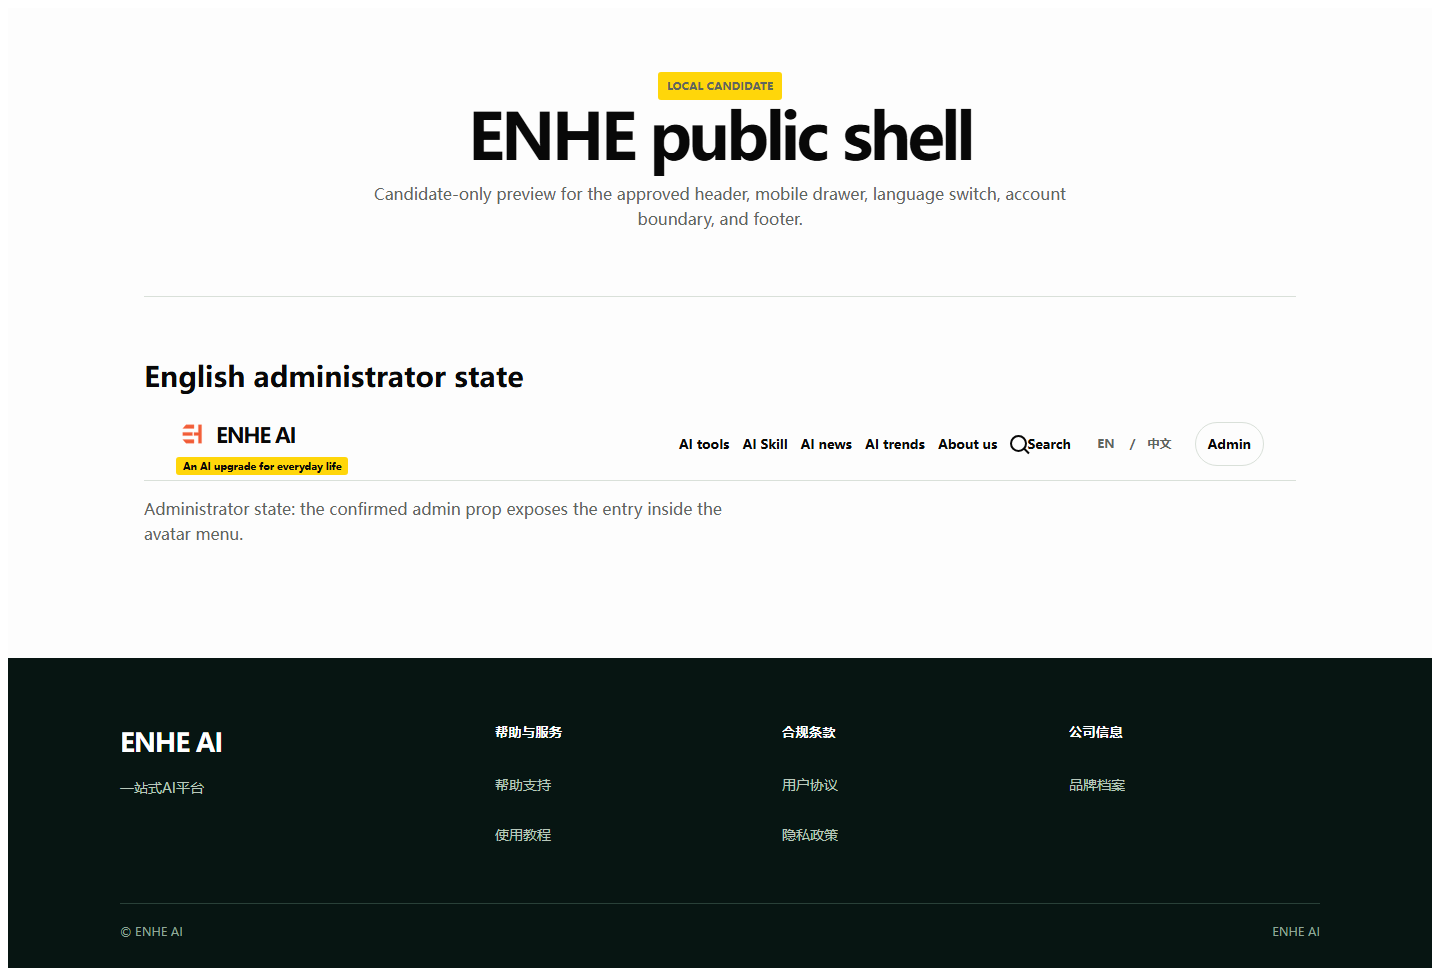
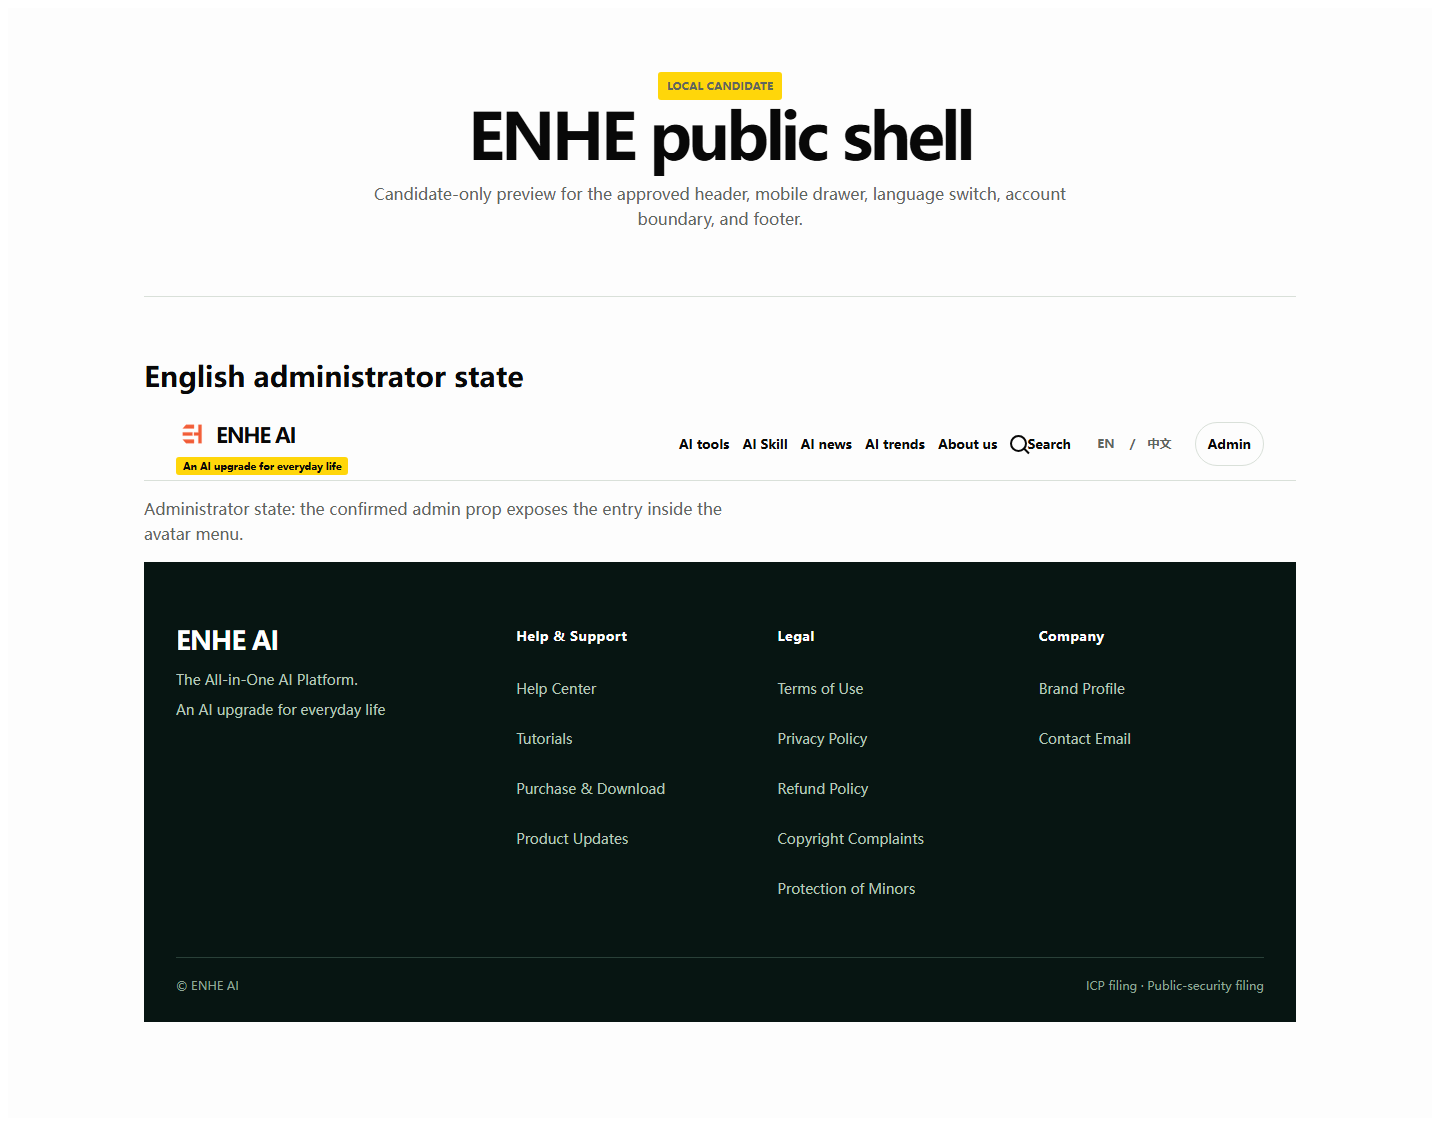
docs(ui): finalize bilingual public shell candidate review
(cherry picked from commit 878a4bb4411bf603f79eb982a2f2cacd270b8b28)

diff --git a/docs/enhe-redesign/phase-2a1/review-report.md b/docs/enhe-redesign/phase-2a1/review-report.md
@@ -1,75 +1,139 @@
-# ENHE Phase 2A.1 public shell candidate review
+# ENHE Phase 2A.1.1 bilingual public shell candidate review
 
-## Scope
+## Scope and baseline
 
 - Worktree: `C:\Users\HU\Documents\New project 2\.worktrees\enhe-public-shell-candidate-v1`
 - Branch: `codex/enhe-public-shell-candidate-v1`
-- Base: `1b3df7c706c5b7f9d8c8a844787da5708e702683`
+- Start HEAD: `7052ce8`
 - Preview route: `/redesign-preview/shell`
 - Old private-folder route: `/__redesign-preview/shell`
 
-The candidate remains isolated. Production header, footer, root layout, globals, sitemap, robots, package files, lockfiles, Prisma, Heartbeat, and R-008 files were not changed.
+The only implementation change in this correction is candidate Footer localization plus the Preview specimen pairing needed to render the same locale in Header, mobile menu, language switch, and Footer. Production public routes and the previously approved shell components remain isolated and unchanged.
 
-## Receipt
+## Final receipt
 
 ```text
-ROUTE_SOURCE_ADDED=YES
-PREVIEW_ROUTE_DEV_ONLY=YES
+PHASE_2A_1_1_STATUS=COMPLETE_WITH_BUILD_GATE_OPEN
+PHASE_2A_1_1_VISUAL_STATUS=PASS
+PHASE_2A_1_1_BUILD_STATUS=OPEN
+PUBLIC_SHELL_CANDIDATE_STATUS=READY_FOR_VISUAL_APPROVAL
+PUBLIC_SHELL_MERGE_STATUS=BLOCKED_BY_HEARTBEAT_R008_AND_BUILD
+
+FOOTER_I18N_COMMIT=1defa15
+DOCS_REVIEW_COMMIT=docs(ui): finalize bilingual public shell candidate review
+FOOTER_I18N_RED_STATUS=EXPECTED_FAIL
+FOOTER_I18N_GREEN_STATUS=PASS
+
 PREVIEW_DEV_HTTP_STATUS=200
 PREVIEW_PRODUCTION_EXPECTED_STATUS=404
+PREVIEW_NOINDEX=YES
+PREVIEW_NOFOLLOW=YES
+PREVIEW_IN_SITEMAP=NO
+
+SCREENSHOT_COUNT=4
+SCREENSHOT_WIDTHS=1440,390,1440,390
+ZH_FOOTER_SCREENSHOTS=2
+EN_FOOTER_SCREENSHOTS=2
+EN_SCREENSHOT_FOOTER_LANGUAGE=EN
+ZH_SCREENSHOT_FOOTER_LANGUAGE=ZH
+
 PRODUCTION_PUBLIC_ROUTE_EXPOSED=NO
 PRODUCTION_NAVIGATION_CHANGED=NO
 PRODUCTION_SITEMAP_CHANGED=NO
 PRODUCTION_EXISTING_ROUTES_REPLACED=NO
-PHASE_2A_1_STATUS=COMPLETE_WITH_BUILD_GATE_OPEN
-PUBLIC_SHELL_CANDIDATE_STATUS=READY_FOR_VISUAL_REVIEW
-PUBLIC_SHELL_MERGE_STATUS=BLOCKED_BY_HEARTBEAT_R008_AND_BUILD
+ROOT_LAYOUT_CHANGED=NO
+GLOBALS_CSS_CHANGED=NO
+R008_CHANGED=NO
+PACKAGE_CHANGED=NO
+LOCKFILE_CHANGED=NO
+PRISMA_CHANGED=NO
+PUSHED=NO
 ```
 
-The production 404 is source-verified through the `NODE_ENV === "production"` `notFound()` guard; a production HTTP request was not claimed because the production build could not finish without the database gate.
+## Root cause and implementation
 
-## Route and indexing verification
+The Footer component accepted `locale`, but its previous English dictionary was incomplete and the Preview mounted only one Footer instance with `locale="zh"` after both Header specimens. Therefore the English Header could never produce an English Footer.
 
-- Dev HTTP `/redesign-preview/shell`: `200`.
-- Dev HTTP `/__redesign-preview/shell`: `404`.
-- Preview HTML robots metadata: `noindex, nofollow, noarchive, noimageindex`.
-- Preview metadata has no canonical, hreflang, Open Graph, or structured-data entry.
-- Sitemap source contains no redesign preview route.
-- Candidate navigation source contains no redesign preview link.
-- Preview source contains no `File.fileUrl`, `File.filePath`, order, payment, download, secret, or Git data.
+The fix uses a candidate-local typed static dictionary: `Record<RedesignLocale, RedesignFooterCopy>`. The dictionary owns the brand intro, three link-column definitions, copyright, filing display policy, and accessible Footer name. It does not read a database, cookie, URL, API, or production i18n state.
 
-## Browser and visual verification
+The Preview now renders an explicit Chinese specimen with `EnheRedesignHeader locale="zh"` and `EnheRedesignFooter locale="zh"`, and an English specimen with `EnheRedesignHeader locale="en"` and `EnheRedesignFooter locale="en"`. The Header passes the same locale to its language switch and mobile menu; no second boolean locale state was introduced.
 
-Playwright verification used the local dev route. The Next development indicator was removed from the captured DOM only; no application source was changed.
+The Footer keeps the existing deep ink-green background, responsive behavior, four-column semantic structure, link focus behavior, and CSS layout. No production Footer or route was modified.
 
-- Mobile menu opens with `aria-expanded=true`, locks body scrolling, and moves focus into the drawer.
-- Escape closes the drawer and returns focus to the trigger.
-- Overlay close works.
-- 390px and 720px narrow-viewport checks had no horizontal overflow.
-- Reduced-motion emulation was enabled.
-- Chinese and English specimen captures were inspected at desktop and mobile widths.
+## Footer copy
 
-The English captures focus the English administrator header specimen. The preview page currently mounts the shared Chinese footer specimen once; the footer component has an independent English column definition, but an English-footer browser capture is not represented by these page screenshots.
+Chinese columns:
 
-Screenshots:
+- `ENHE AI`
+- `帮助与服务`: 帮助支持, 使用教程, 购买与下载, 产品更新
+- `合规条款`: 用户协议, 隐私政策, 退款规则, 版权投诉, 未成年人保护
+- `公司信息`: 品牌档案, 联系邮箱
+- Filing: `ICP备案 · 公安备案`
+
+English columns:
+
+- `ENHE AI`
+- `Help & Support`: Help Center, Tutorials, Purchase & Download, Product Updates
+- `Legal`: Terms of Use, Privacy Policy, Refund Policy, Copyright Complaints, Protection of Minors
+- `Company`: Brand Profile, Contact Email
+- Filing: `ICP filing · Public-security filing`
+
+All hrefs remain within the approved candidate link contract; no new production route was created.
+
+## Tests and browser acceptance
+
+The new RED assertions failed before implementation with 3 failures: missing complete bilingual copy, no English Footer specimen, and missing typed accessible/filing fields. After implementation they pass.
+
+```text
+FOOTER_I18N_TESTS=3 new behaviors covered; RED then GREEN
+FOOTER_TESTS=10 candidate tests passed
+HEADER_TESTS=covered by existing candidate contract; passed
+MOBILE_MENU_TESTS=covered by existing candidate contract and browser check; passed
+PREVIEW_ROUTE_TESTS=passed
+FULL_TESTS=437 files passed, 9 PostgreSQL files skipped; 2103 tests passed, 90 skipped
+npm run lint=PASS
+npm run typecheck=PASS
+```
+
+Fresh dev-browser evidence on port 38125:
+
+- `/redesign-preview/shell`: `200`.
+- `/__redesign-preview/shell`: `404`.
+- Robots: `noindex, nofollow, noarchive, noimageindex`.
+- Chinese and English Footer DOM specimens are both visible and language-pure.
+- No Footer/navigation link points to `redesign-preview`.
+- No visible `File.fileUrl`, `File.filePath`, order, payment, or download data.
+- New route had no page error or unexpected console error.
+- Mobile menu focus, Escape return, overlay close, body scroll lock, focus-visible style, reduced-motion, and narrow viewport overflow checks passed.
+
+Screenshots were captured with `fullPage`, no temporary focus ring, and inspected individually. PNG dimensions:
+
+```text
+zh-shell-1440.png  1440x1231
+zh-shell-390.png    390x1766
+en-shell-1440.png  1440x1126
+en-shell-390.png    390x1717
+```
+
+All four screenshots contain the complete Footer. The two English screenshots show only English Footer copy; the two Chinese screenshots show only Chinese Footer copy.
+
+## Build gate
+
+```text
+BUILD=OPEN_LOCAL_DOCKER_UNAVAILABLE
+```
+
+`docker version` reports the Docker client but cannot connect to the Docker Desktop Linux Engine. A fresh `npm run build` compiled successfully and completed lint/type checking, then failed during static generation because `DATABASE_URL` is unavailable. No production database, fake database URL, seed, migration, deployment, or environment change was used.
+
+## Explicit non-actions
+
+The existing production public routes, root layout, `globals.css`, sitemap, robots, product details, download, payment, OAuth, Runtime Heartbeat, R-008, Prisma, package files, lockfiles, remote, and production environment were not changed. R-008 was not executed. The candidate was not pushed or merged.
+
+## Result artifacts
 
 - `screenshots/zh-shell-1440.png`
 - `screenshots/zh-shell-390.png`
 - `screenshots/en-shell-1440.png`
 - `screenshots/en-shell-390.png`
 
-## Validation
-
-```text
-npm run lint: PASS
-npm run typecheck: PASS
-npm test -- candidate: PASS (7 tests)
-npm test -- full: PASS (437 files passed, 9 PostgreSQL files skipped; 2100 tests passed, 90 skipped)
-runtime-heartbeat focused test: PASS (6 tests)
-```
-
-`npm run build` compiled successfully and completed lint/type checking, then failed during static page generation because `DATABASE_URL` is unavailable. Docker is also unavailable (`dockerDesktopLinuxEngine` daemon not found). No production database, deployment, or secret configuration was changed.
-
-## Merge gate
-
-This candidate is ready for visual review only. Merge remains blocked by the separately tracked Heartbeat/R-008 gate and the unavailable production build/database gate.
+The final ZIP contains only this Phase 2A.1 documentation directory and its four screenshots; it contains no source archive, `node_modules`, `.next`, `.env`, database, secret, private URL, or Git credential.

diff --git a/docs/enhe-redesign/phase-2a1/submission-checklist.md b/docs/enhe-redesign/phase-2a1/submission-checklist.md
@@ -1,24 +1,26 @@
-# Phase 2A.1 submission checklist
+# Phase 2A.1.1 submission checklist
 
 ## Required artifacts
 
-- [x] Isolated worktree and branch preserved.
-- [x] Routable dev-only preview route added under `src/app/redesign-preview`.
-- [x] Old `src/app/__redesign-preview` directory removed by route move.
-- [x] Production guard and noindex metadata present.
-- [x] Four visual-review screenshots captured.
-- [x] Lint, typecheck, candidate tests, and full test suite run.
-- [x] Build result and Docker/database gate recorded.
-- [x] No source tree, `node_modules`, `.next`, `.env`, database dump, secret, private URL, or Git credential included in the results ZIP.
+- [x] Baseline `7052ce8` verified before work.
+- [x] Candidate Footer uses one typed `zh`/`en` dictionary.
+- [x] Preview pairs Header and Footer under the same explicit locale specimen.
+- [x] RED test observed before implementation; GREEN test observed after implementation.
+- [x] Four full-page screenshots regenerated and visually inspected.
+- [x] English screenshots contain English Footer; Chinese screenshots contain Chinese Footer.
+- [x] Lint, typecheck, candidate tests, and full test suite passed.
+- [x] Route, noindex, sitemap, navigation, privacy, and browser regressions checked.
+- [x] Build and Docker gate recorded without fake database configuration.
+- [x] No source tree, `node_modules`, `.next`, `.env`, database dump, secret, private URL, or Git credential included in the ZIP.
 
 ## Exact commits
 
 ```text
-538af42 fix(preview): expose guarded redesign preview route
-docs(ui): complete phase 2A public shell candidate review
+1defa15 fix(ui): localize redesigned footer specimen
+docs(ui): finalize bilingual public shell candidate review
 ```
 
-The second commit is restricted to this review document directory and its four PNG screenshots.
+The first commit contains only Footer localization, Preview specimen pairing, types, and candidate tests. The second commit is restricted to this review directory and the four screenshots.
 
 ## Explicitly unchanged production surfaces
 
@@ -30,8 +32,9 @@ The second commit is restricted to this review document directory and its four P
 - `package.json`
 - `package-lock.json`
 - `prisma/**`
-- Heartbeat and R-008 files
+- Runtime Heartbeat and R-008 files
+- product detail, download, payment, OAuth, database, remote, and production environment
 
 ## Results ZIP contents
 
-The ZIP contains only `docs/enhe-redesign/phase-2a1/**`, including this checklist, the review report, the allowed-path list, and four screenshots.
+Only `docs/enhe-redesign/phase-2a1/**` is included: this checklist, the review report, the allowed-path list, and four screenshots.
